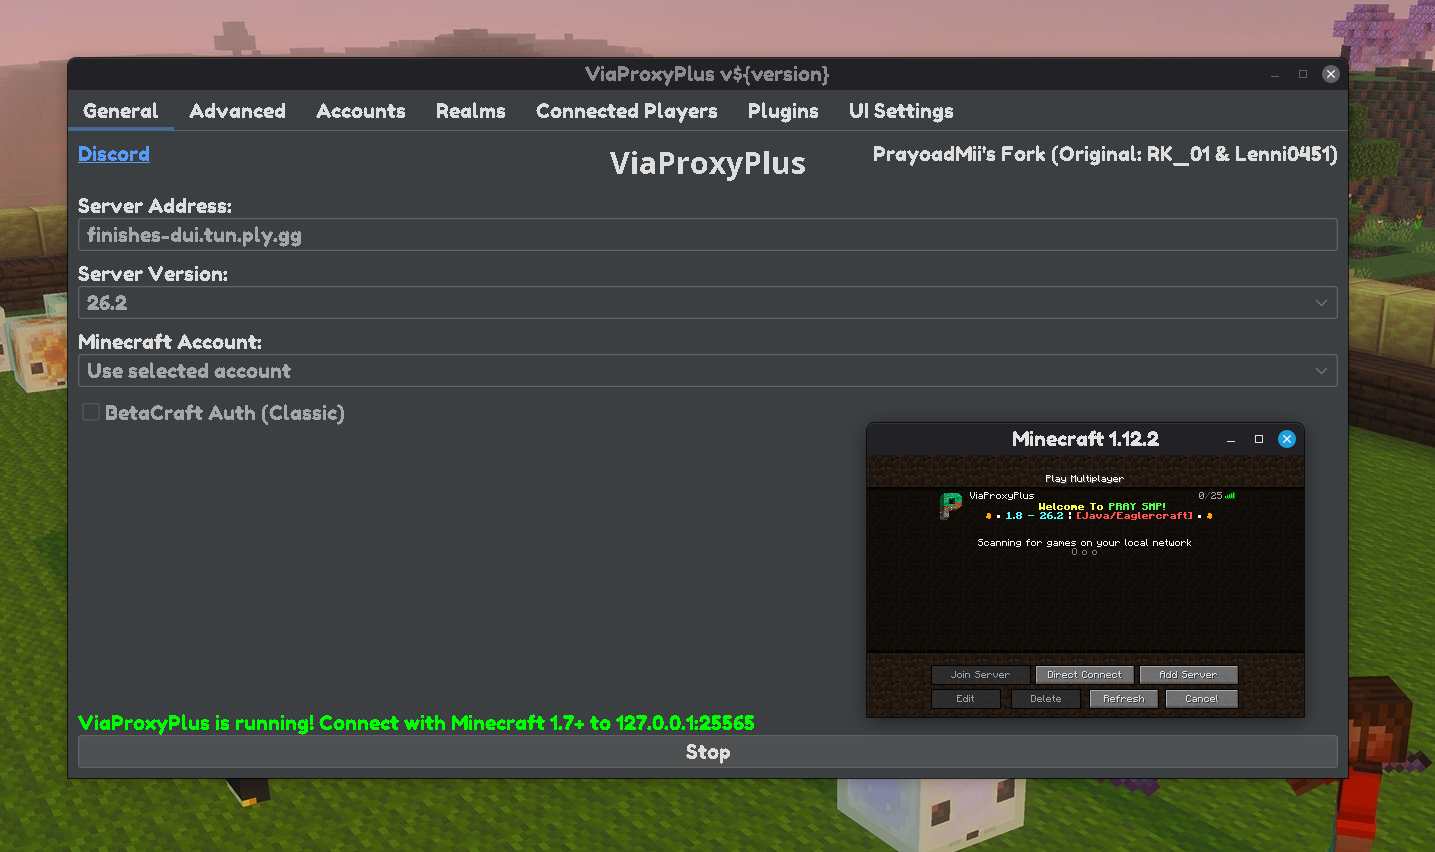
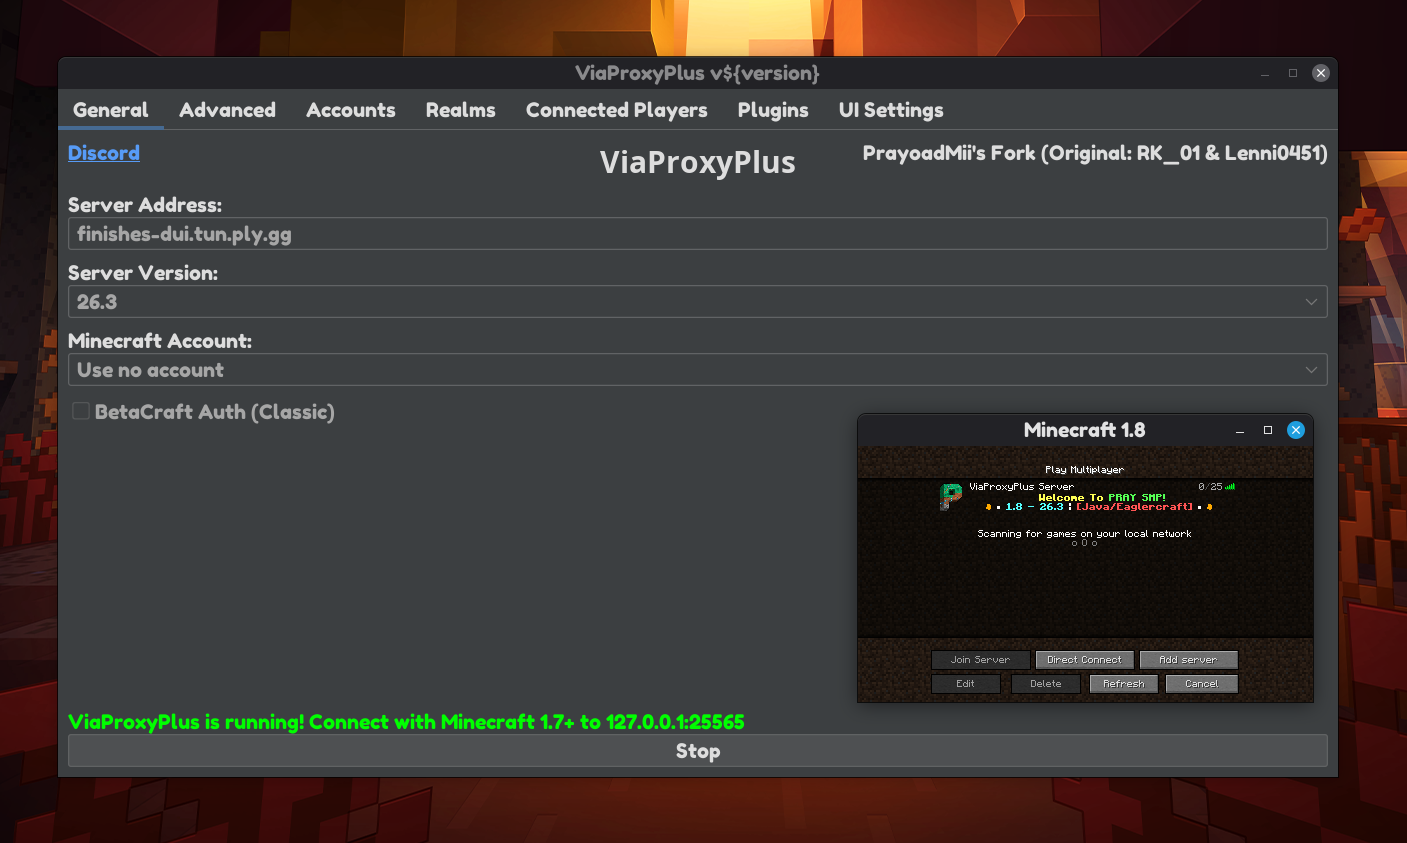
Update Sample Image And README

diff --git a/README.md b/README.md
@@ -7,7 +7,7 @@
 
 **Java 8 Jar Are No-Longer Available And Supported After ViaProxyPlus 3.7.4**
 
-**You Can Build Java 8 Jar By Clone This Repository And Run ./gradlew downgradeJar**
+**You Can Build Java 8 Jar By Clone This Repository And Run `./gradlew downgradeJar`**
 
 ---
 
